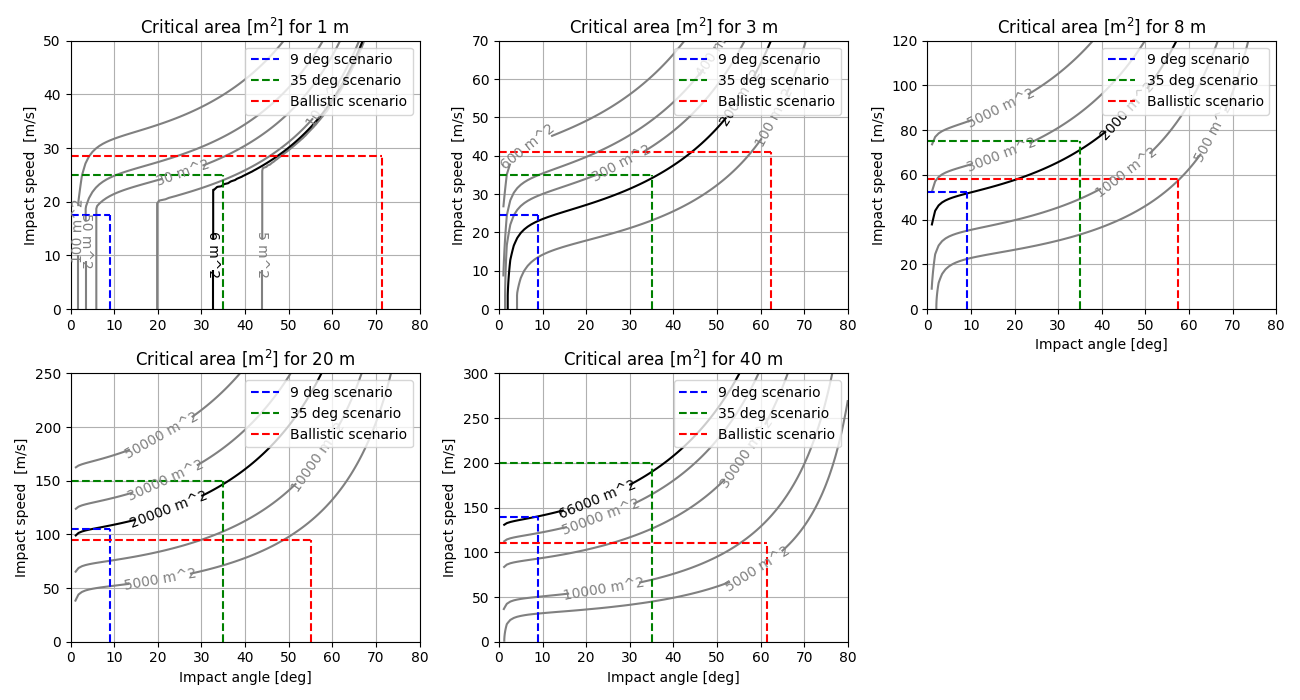
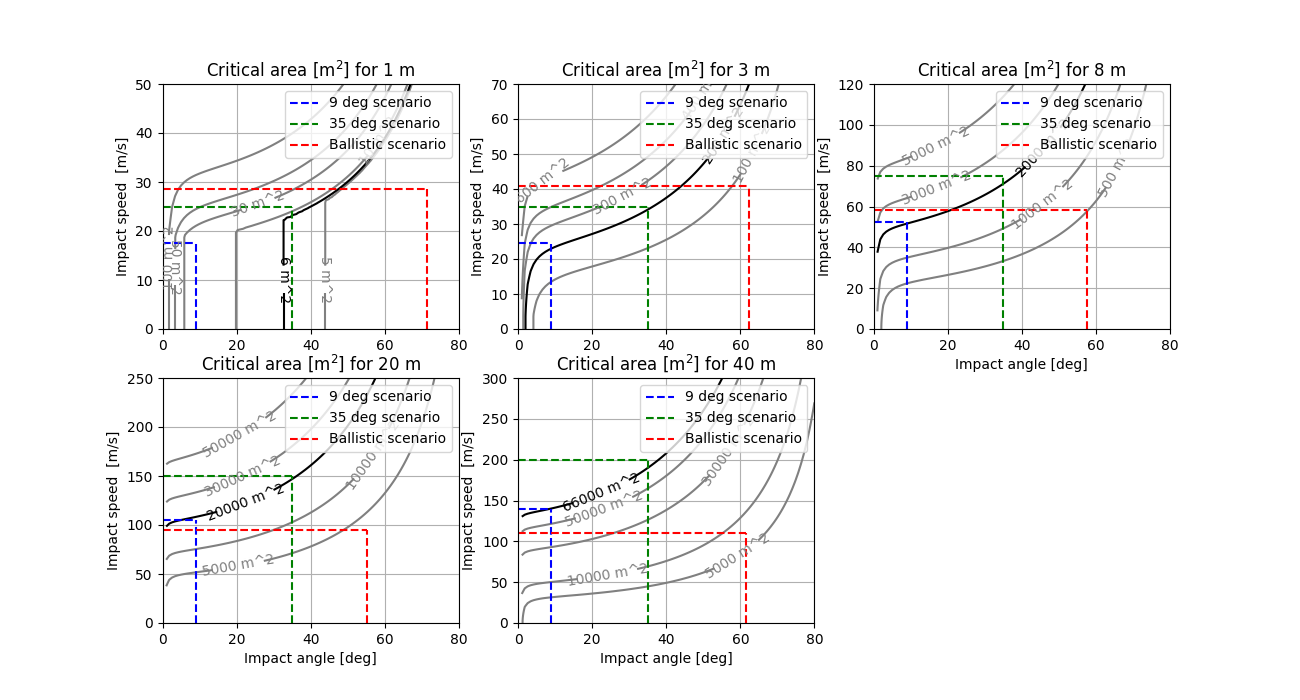
Updated some example and updated obstacles stuff

diff --git a/casex/figures.py b/casex/figures.py
@@ -47,35 +47,44 @@ class Figures:
 
         OS = Obstacles(CA_width, CA_length, 0)
 
-        x = np.linspace(0, CA_length, 10)
+        x = np.linspace(0, CA_length, 30)
 
         CA_of_interest = 120
 
         # Compute the probability curve.
-        p_x, beta_analytical, sanity_check = OS.cdf(x, obstacle_density, obstacle_width_mu, obstacle_width_sigma,
+        p_x, EX, beta_analytical, sanity_check = OS.cdf(x, obstacle_density, obstacle_width_mu, obstacle_width_sigma,
                                                     obstacle_length_mu, obstacle_length_sigma, 25)
+
+        # Insert a zero at the beginning to force the graph to drop to zero on the left side of the x axis.
+        p_x = np.insert(p_x, 0, 0)
+        x = np.insert(x, 0, 0)
 
         # Compute probability for specific CA size (for graphics).
         p_x2 = OS.cdf(CA_of_interest / CA_width, obstacle_density, obstacle_width_mu, obstacle_width_sigma,
                       obstacle_length_mu, obstacle_length_sigma, 25)
 
         print('Probability of reduction to at most {:1.0f} m^2 is {:1.0f}%'.format(CA_of_interest, p_x2[0][0] * 100))
+        print('Average size of CA is {:1.0f} m^2, which is a reduction by {:1.0f}%'.format(EX * CA_width, (CA_length - EX) / CA_length * 100))
 
         # Plot the curve and the target CA.
         fig = plt.figure(figsize=(12, 8))
         ax = plt.axes()
-        ax.plot(x * CA_width, p_x, linewidth=3)
+        ax.plot(x * CA_width, p_x, linewidth=3, label = 'Cumulative density function (histogram)')
 
         ax.set_xlabel('Critical area [m$^2$]', fontsize=16)
-        ax.set_xlim([0, x[-1] * CA_width])
+        ax.set_xlim([-1, x[-1] * CA_width])
 
-        ax.plot([0, CA_of_interest], [p_x2[0][0], p_x2[0][0]], '--', color='orange', linewidth=3)
+        ax.plot([0, CA_of_interest], [p_x2[0][0], p_x2[0][0]], '--', color='orange', linewidth=3, label='Reduction to 120 m$^2$')
         ax.plot([CA_of_interest, CA_of_interest], [p_x[0], p_x2[0][0]], '--', color='orange', linewidth=3)
+        
+        ax.plot([EX * CA_width, EX * CA_width], [p_x[0], 1], '--', linewidth=3, color='green', label='Average CA size ({:1.0f} m$^2$)'.format(EX * CA_width))
 
         ax.set_ylim([p_x[0], math.ceil(p_x[-1] * 10) / 10])
         ax.set_ylabel('Probability', fontsize=16)
 
         ax.tick_params(axis='both', which='major', labelsize=14)
+
+        ax.legend()
 
         plt.grid()
         plt.show()
@@ -328,7 +337,8 @@ class Figures:
             fig.colorbar(im, cax=cax, orientation='vertical')
 
         # CA axis tick values in log10.
-        CA_ticks = np.array([math.log10(CA[0]), 0.813, 2.3, 3.3, 4.3, 4.82])
+        #CA_ticks = np.array([math.log10(CA[0]), 0.813, 2.3, 3.3, 4.3, 4.82])
+        CA_ticks = np.log10(np.array([CA[0], 6.5, 200, 2000, 20000, 66000]))
         if show_additional_grid:
             CA_ticks_additional = np.log10(np.array([20, 50, 100, 500, 1000, 5E3, 10E3, 4E4, 10E4]))
         else:
@@ -416,7 +426,7 @@ class Figures:
         else:
             pop_density_ticks = np.array([-2, -1, 1, 2, 3.167, 4.167, 5, 5.7])
         if show_additional_grid:
-            pop_density_ticks_additional = np.log10(np.array([1, 5, 20, 50, 200, 400, 800, 3E3, 8E3, 30E3, 60E3]))
+            pop_density_ticks_additional = np.log10(np.array([0.01, 0.1, 1, 5, 20, 50, 200, 400, 800, 3E3, 8E3, 30E3, 60E3, 100E3]))
         else:
             pop_density_ticks_additional = []
         ax.set_yticks(np.sort(np.concatenate([pop_density_ticks, pop_density_ticks_additional])))
@@ -436,13 +446,13 @@ class Figures:
             if k < math.log10(7) or show_reduced_CA_axis:
                 end_pop_density = math.log10(pop_density[-1])
             else:
-                end_pop_density = math.log10(1E5)
+                end_pop_density = math.log10(5E5)
             ax.plot([k, k], [math.log10(pop_density[0]), end_pop_density], color='white')
         for k in CA_ticks_additional:
             if k < math.log10(7):
                 end_pop_density = math.log10(pop_density[-1])
             else:
-                end_pop_density = math.log10(1E5)
+                end_pop_density = math.log10(5E5)
             ax.plot([k, k], [math.log10(pop_density[0]), end_pop_density], color='black', linestyle='--')
 
         # Show horizontal lines.

diff --git a/casex/obstacles.py b/casex/obstacles.py
@@ -769,6 +769,8 @@ class Obstacles:
         -------
         p_x : float array
             The CDF value for the given x. This return parameter has the same type as input x.
+        EX : float
+            [m] The expected value of the length.
         beta : float
             The beta values as computed in :cite:`f-lacour2021`.
         acc_probability_check : float
@@ -791,19 +793,25 @@ class Obstacles:
         pdf_length_step = (length[-1] - length[0]) / (pdf_resolution - 1)
         pdf_CA_orientation_step = (CA_orientation[-1] - CA_orientation[0]) / (pdf_resolution - 1)
 
+        # Determine if the input is an array
+        x_array = isinstance(x, np.ndarray)
+
         # The assumption is that the input is a list, so if it is scalar, change it to a list.
-        if not isinstance(x, np.ndarray):
+        if not x_array:
             x = np.array([x])
 
         x_resolution = len(x)
+        x_step = 1
+        if x_array and len(x) > 1:
+            x_step = (x[-1] - x[0]) / (len(x) - 1)
 
         # Preset p_x.
         p_x = np.zeros(x_resolution)
 
-        acc_probability_check = 0
-
+        EX = 0
         beta_acc = 0
-
+        acc_probability_check = 0
+ 
         for idx_x, x_val in enumerate(x):
             # Reset acc for integral.
             accumulator = 0
@@ -828,13 +836,20 @@ class Obstacles:
                             beta_acc = beta_acc + w * l * p_width * p_length
 
             p_x[idx_x] = 1 - np.exp(-obstacle_density * accumulator)
+            
+            # Find expected value from the CDF
+            EX = EX + (1 - p_x[idx_x]) * x_step
 
         beta = 1 - np.exp(-obstacle_density * beta_acc)
-
+        
+        # If x is not an array, the EX does not make sense, so set to zero.
+        if not x_array:
+            EX = 0
+                
         # Divide to account for the accumulator is not reset in the above outer loop.
         acc_probability_check = acc_probability_check / x_resolution
 
-        return p_x, beta, acc_probability_check
+        return p_x, EX, beta, acc_probability_check
 
     def test_Minkowski_sum_diff(self):
         # Create to random convex polygons.

diff --git a/examples/example8_figures.py b/examples/example8_figures.py
@@ -5,24 +5,22 @@ This example reproduces the figures in Annex F :cite:`JARUS_AnnexF`.
 
 The various figures can be separately generated by calling the functions with the appropriate boolean settings as shown
 in this example. However, other variations of the figures can also be generated. The documentation for each figure is
-provided in :class:`figures`.
+provided in :class:`Figures`.
 """
 from casex import Figures
 
 figures = Figures()
 
-figures.figure_angle_vs_speed()
+#figures.figure_angle_vs_speed()
 
-figures.figure_iGRC_CA_vs_PopDensity(filename="_img1", show_reduced_CA_axis=False, show_old_quantization=False,
-                                     show_x_wingspan=False, show_x_velocity=False, show_x_CA=True,
-                                     show_x_CA_above=False, show_model_CA=True, show_colorbar=True)
-
-figures.figure_iGRC_CA_vs_PopDensity(filename="_img2", show_reduced_CA_axis=False, show_old_quantization=False, 
-                                     show_x_wingspan=True, show_x_velocity=True, show_x_CA=True,
-                                     show_x_CA_above=True)
-
-figures.figure_iGRC_CA_vs_PopDensity(filename="_img3", show_reduced_CA_axis=True, show_old_quantization=True, 
-                                     show_x_wingspan=True, show_x_velocity=False, show_x_CA=False,
+figures.figure_iGRC_CA_vs_PopDensity(filename="_img2", show_reduced_CA_axis=True,
+                                     show_old_quantization=False, show_x_wingspan=True,
+                                     show_x_velocity=True, show_x_CA=True,
+                                     show_x_CA_above=True, show_additional_grid=False)
+exit()
+figures.figure_iGRC_CA_vs_PopDensity(filename="_img3", show_reduced_CA_axis=True,
+                                     show_old_quantization=True, show_x_wingspan=True,
+                                     show_x_velocity=False, show_x_CA=False,
                                      show_x_CA_above=False)
 
 figures.figure_obstacle_critical_area_reduction()

diff --git a/examples/example6_obstacles.py b/examples/example6_obstacles.py
@@ -17,7 +17,7 @@ CA_width = 3
 CA_length = 200/CA_width
 
 # Obstacle density in obstacles per square meter.
-houses_per_square_km = 800
+houses_per_square_km = 850
 obstacle_density = houses_per_square_km / 1e6
 
 # Average width of house and variation in house width.
@@ -32,8 +32,10 @@ obstacle_length_sigma = 2
 OS = Obstacles(CA_width, CA_length, 0)
 
 # Set resolution along first axis.
-# This does not need to be terribly high, since the resulting curve is always smooth.
-x_resolution = 10
+# This does not need to be terribly high for plotting, since the resulting curve is always smooth.
+# But it should not be too low if you plan to use the expected value (average length), which is
+# also returned by the `cdf` method.
+x_resolution = 30
 x = np.linspace(0, CA_length, x_resolution)
 
 # Resolution of PDFs in computations. Higher res gives better accuracy, but also longer computation time.
@@ -41,19 +43,23 @@ x = np.linspace(0, CA_length, x_resolution)
 pdf_resolution = 25
 
 # Compute the probability curve.
-p_x, beta_analytical, sanity_check = OS.cdf(x, obstacle_density, obstacle_width_mu, obstacle_width_sigma,
+p_x, EX, beta_analytical, sanity_check = OS.cdf(x, obstacle_density, obstacle_width_mu, obstacle_width_sigma,
                                             obstacle_length_mu, obstacle_length_sigma, pdf_resolution)
 
 # Plot the curve and the target CA.
 fig = plt.figure(1, figsize=(12, 8), dpi=90)
 ax = fig.add_subplot(111)
-ax.plot(x * CA_width, p_x)
+ax.plot(x * CA_width, p_x, linewidth=1.5, label='CDF')
+
+ax.plot([EX * CA_width, EX * CA_width], [p_x[0], 1], '--', linewidth=1.5, label='Average CA size')
 
 ax.set_xlabel('Critical area [m$^2$]', fontsize=12)
 ax.set_xlim([0, x[-1] * CA_width])
 
 ax.set_ylim([p_x[0], 1])
 ax.set_ylabel('Probability', fontsize=12)
+
+ax.legend()
 
 plt.grid()
 plt.show()

diff --git a/casex/obstacle_simulation.py b/casex/obstacle_simulation.py
@@ -25,7 +25,7 @@ def obstacle_simulation():
     # CA properties.
     CA_width = 3
     CA_length = 67
-    trials_count = 100
+    trials_count = 1000
     trial_area_sidelength = 1000
     num_of_obstacles = 861
 
@@ -82,11 +82,12 @@ def obstacle_simulation():
     # Compute the probability based on theory.
     if do_theory:
         theory_time = time.time()
-        x_resolution = 10
+        x_resolution = 100
         x = np.linspace(0, CA_length, x_resolution)
         pdf_resolution = 25
-        p_x, beta_analytical, sanity_check = OS.cdf(x, obstacle_density, obstacle_width_mu, obstacle_width_sigma,
-                                                    obstacle_length_mu, obstacle_length_sigma, pdf_resolution)
+        p_x, EX, beta_analytical, sanity_check = OS.cdf(x, obstacle_density, obstacle_width_mu,
+                                                        obstacle_width_sigma, obstacle_length_mu,
+                                                        obstacle_length_sigma, pdf_resolution)
         print('Theory time:             {:1.3f} sec'.format(time.time() - theory_time))
         beta_numerical = OS.total_coverage / OS.trial_area_sidelength / OS.trial_area_sidelength
 
@@ -120,6 +121,7 @@ def obstacle_simulation():
     print('Original CA:             {:1.0f} m^2'.format(OS.CA_length * OS.CA_width))
     print('Average reduced CA:      {:1.0f} m^2 ({:d}%)'.format(np.mean(OS.CA_lengths) * OS.CA_width, int(
         round(100 * np.mean(OS.CA_lengths) / OS.CA_length))))
+    print('Analytical reduced CA    {:1.0f} m^2'.format(EX * OS.CA_width))
 
     print('---------------------------')
     if do_sanity_check:

diff --git a/docs/source/examples/example8_figures.rst b/docs/source/examples/example8_figures.rst
@@ -8,29 +8,21 @@ The various figures can be separately generated by calling the functions
 with the appropriate boolean settings as shown
 in this example. However, other variations of the figures can also be generated.
 The documentation for each figure is
-provided in :class:`figures`.
-
-The first method generates Figure 6, which shows the relation between
-angle and speed for a constant critical area. It is based on example 4,
-but include all five classes. In Annex F only the subplot for the 3 m
-class is shown.
+provided in :class:`Figures`.
 
 .. literalinclude:: ../../../examples/example8_figures.py
     :lines: 10-26
 
-*Text explaining the first image output*
+The four different figures produced are shown below.
 
 .. image:: images/example_8_1.png
 
-*Text explaining the second image output*
 
 .. image:: images/example_8_2.png
 
-*Text explaining the third image output*
 
 .. image:: images/example_8_3.png
 
-*Text explaining the fourth image output*
 
 .. image:: images/example_8_4.png
 
